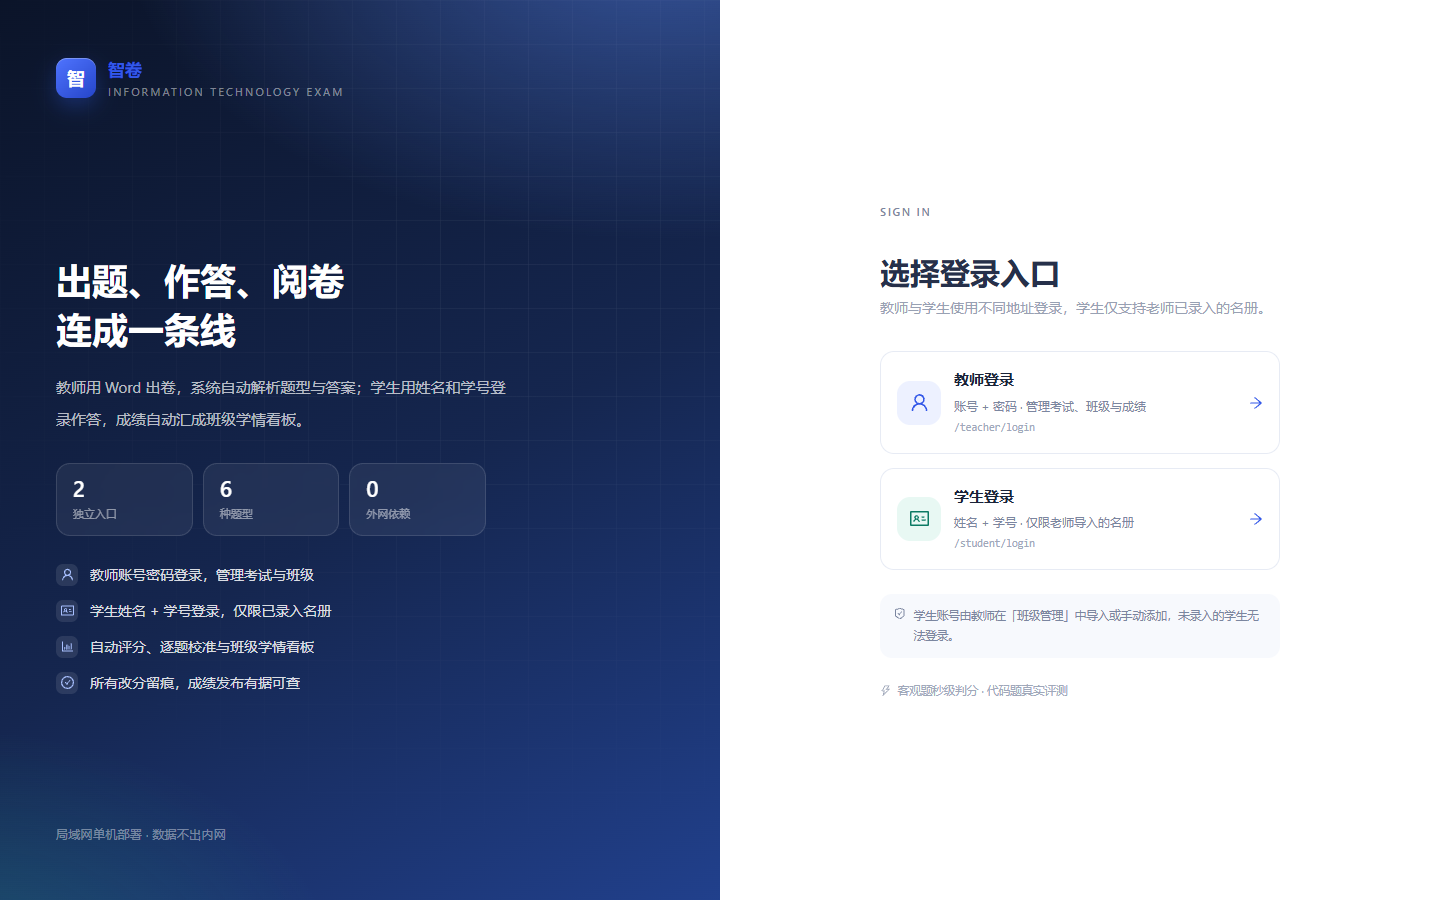
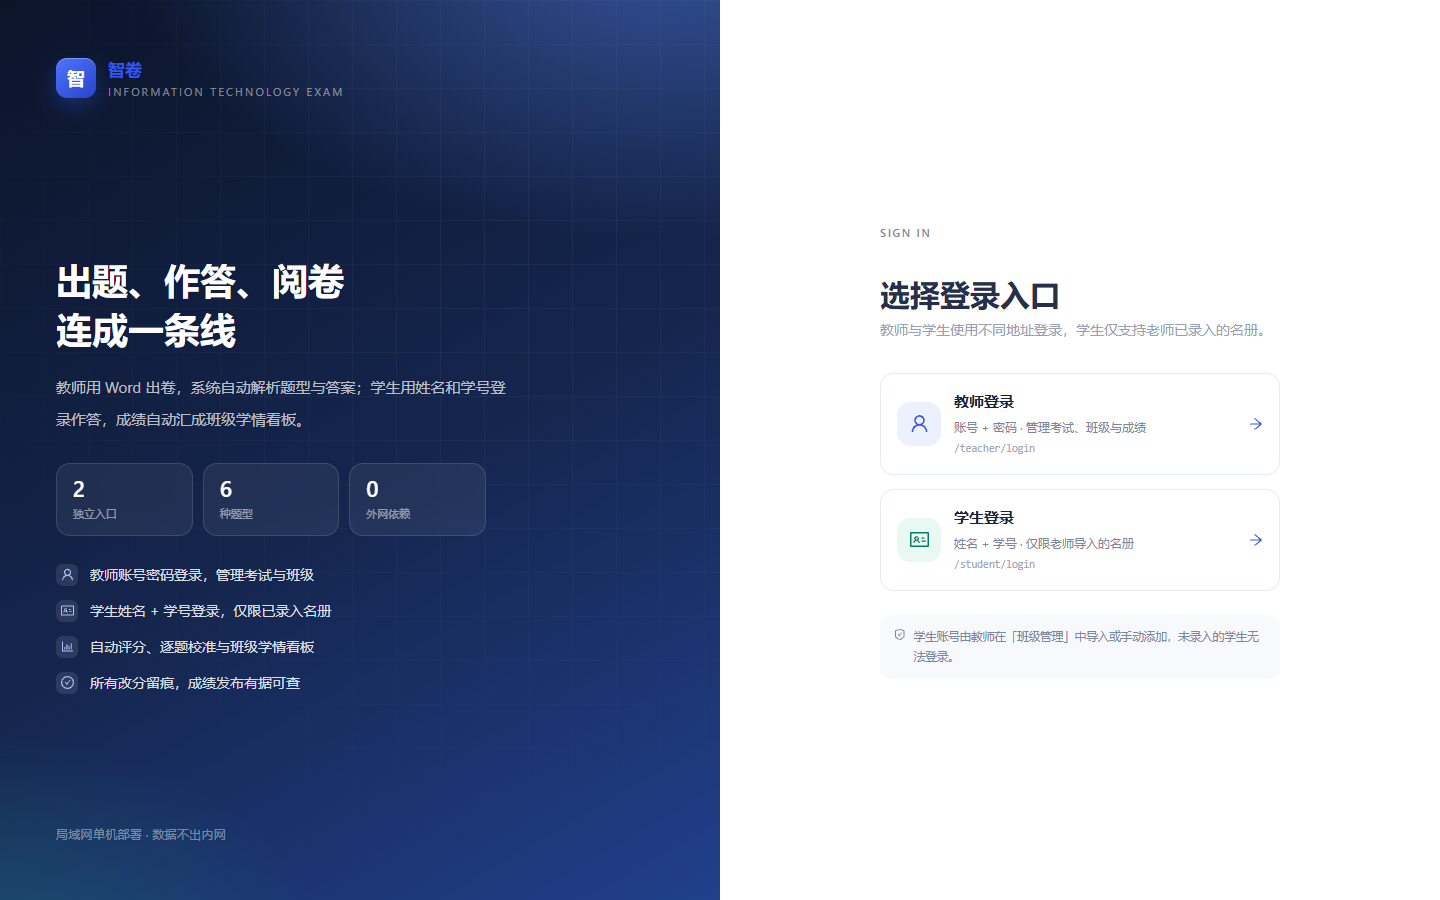
style: 移除页面常驻运行时与闭环提示
- 教师端侧边栏移除代码运行时状态块，顶栏移除运行时正常/异常胶囊
- 首页移除课堂闭环流程条，批改台移除每 3 秒自动刷新说明
- 学生首页移除底部常驻班级/保存说明，登录页移除营销式底部提示
- 未检测到 Python 时仍在首页保留错误提示，避免静默失败
- 同步 README 说明与界面截图

Changed region(s): [[0.625, 0.5289, 0.875, 0.7778], [0.5938, 0.28, 0.875, 0.3733], [0.625, 0.4044, 0.8125, 0.4978]]

diff --git a/src/App.tsx b/src/App.tsx
@@ -34,12 +34,6 @@ function RouteLoading() {
   );
 }
 
-interface RuntimeInfo {
-  python: string | null;
-  pythonSource: string;
-  node: string;
-}
-
 const TEACHER_NAV = [
   { to: '/teacher', end: true, label: '考试管理', icon: <DashboardOutlined /> },
   { to: '/teacher/analytics', end: false, label: '学情看板', icon: <BarChartOutlined /> },
@@ -61,15 +55,10 @@ function TeacherShell() {
   const location = useLocation();
   const [collapsed, setCollapsed] = useState(() => window.innerWidth < 992);
   const [mobile, setMobile] = useState(() => window.innerWidth < 992);
-  const [runtime, setRuntime] = useState<RuntimeInfo | null>(null);
 
   useEffect(() => {
     setCollapsed(window.innerWidth < 992);
     setMobile(window.innerWidth < 992);
-    fetch('/api/auth/runtime')
-      .then((res) => (res.ok ? res.json() : null))
-      .then(setRuntime)
-      .catch(() => setRuntime(null));
   }, []);
 
   useEffect(() => {
@@ -147,18 +136,7 @@ function TeacherShell() {
           <div className="flex-1" />
 
           <div className="sider-footer">
-            <div className="runtime-chip">
-              <span className={`runtime-dot ${runtime && !runtime.python ? 'is-off' : ''}`} />
-              <div className="min-w-0">
-                <div className="truncate text-white/75">
-                  {runtime == null ? '检测代码运行时…' : runtime.python ? '代码运行时就绪' : '代码运行时未就绪'}
-                </div>
-                <div className="truncate text-[10.5px] text-white/35">
-                  {runtime?.python ? runtime.pythonSource : '代码题将无法评测'}
-                </div>
-              </div>
-            </div>
-            <div className="mt-2 px-1 text-[10.5px] tracking-wide text-white/25">v0.3 · 局域网版</div>
+            <div className="px-1 text-[10.5px] tracking-wide text-white/25">v0.3 · 局域网版</div>
           </div>
         </div>
       </Layout.Sider>
@@ -179,12 +157,6 @@ function TeacherShell() {
           </div>
 
           <div className="ml-auto flex items-center gap-2 sm:gap-3">
-            {runtime ? (
-              <span className={`runtime-pill hidden md:inline-flex ${runtime.python ? '' : 'is-off'}`}>
-                <span className={`runtime-dot ${runtime.python ? '' : 'is-off'}`} style={{ width: 6, height: 6 }} />
-                {runtime.python ? '运行时正常' : '运行时异常'}
-              </span>
-            ) : null}
             <Dropdown
               trigger={['click']}
               menu={{

diff --git a/src/pages/teacher/Grading.tsx b/src/pages/teacher/Grading.tsx
@@ -19,7 +19,6 @@ import {
   BarChartOutlined,
   CheckCircleOutlined,
   ClockCircleOutlined,
-  ReloadOutlined,
   SearchOutlined,
   TeamOutlined,
   TrophyOutlined,
@@ -27,7 +26,7 @@ import {
 import { api, post } from '../../api';
 import type { ExamDetailTeacher, SubmissionRow } from '../../../shared/types';
 import { ExamStatusTag, Page, PageHeader, Pill, StatCard, SubmissionStatusTag } from '../../ui';
-import { formatDate, formatTime, scoreText } from '../../format';
+import { formatDate, scoreText } from '../../format';
 
 const { Text } = Typography;
 
@@ -52,7 +51,6 @@ export function TeacherGrading() {
   const [filter, setFilter] = useState<'all' | 'review'>('all');
   const [classFilter, setClassFilter] = useState<number | 'all'>('all');
   const [keyword, setKeyword] = useState('');
-  const [lastUpdated, setLastUpdated] = useState<string | null>(null);
 
   const load = useCallback(async () => {
     try {
@@ -63,7 +61,6 @@ export function TeacherGrading() {
       setExam(detail);
       setRows(subs);
       setError('');
-      setLastUpdated(new Date().toISOString());
     } catch (err) {
       setError(err instanceof Error ? err.message : '加载失败');
     }
@@ -258,10 +255,6 @@ export function TeacherGrading() {
           <span className="flex flex-wrap items-center gap-2.5">
             <ExamStatusTag status={exam.status} />
             {exam.resultsPublished ? <Pill tone="green">成绩已发布</Pill> : null}
-            <span className="inline-flex items-center gap-1.5">
-              <ReloadOutlined className="text-[11px]" />
-              每 3 秒自动刷新{lastUpdated ? ` · 最近 ${formatTime(lastUpdated)}` : ''}
-            </span>
           </span>
         }
         extra={

diff --git a/src/styles.css b/src/styles.css
@@ -210,33 +210,6 @@ body {
   border-top: 1px solid rgba(255, 255, 255, 0.07);
 }
 
-.runtime-chip {
-  display: flex;
-  align-items: center;
-  gap: 8px;
-  padding: 9px 11px;
-  border-radius: 10px;
-  background: rgba(255, 255, 255, 0.045);
-  border: 1px solid rgba(255, 255, 255, 0.06);
-  color: rgba(255, 255, 255, 0.6);
-  font-size: 11.5px;
-  line-height: 1.5;
-}
-
-.runtime-dot {
-  width: 7px;
-  height: 7px;
-  border-radius: 50%;
-  background: #2bd4a0;
-  box-shadow: 0 0 0 3px rgba(43, 212, 160, 0.14);
-  flex: none;
-}
-
-.runtime-dot.is-off {
-  background: #f2a33c;
-  box-shadow: 0 0 0 3px rgba(242, 163, 60, 0.14);
-}
-
 .app-topbar.ant-layout-header {
   position: sticky;
   top: 0;
@@ -267,26 +240,6 @@ body {
 
 .topbar-sep {
   color: #cfd6e6;
-}
-
-.runtime-pill {
-  display: inline-flex;
-  align-items: center;
-  gap: 7px;
-  height: 30px;
-  padding: 0 11px;
-  border-radius: 999px;
-  background: #f1fbf7;
-  border: 1px solid #d4f3e7;
-  color: #0b7a56;
-  font-size: 11.5px;
-  white-space: nowrap;
-}
-
-.runtime-pill.is-off {
-  background: #fff8ed;
-  border-color: #f7e3c2;
-  color: #a3680d;
 }
 
 .user-trigger {

diff --git a/src/pages/Login.tsx b/src/pages/Login.tsx
@@ -13,7 +13,6 @@ import {
   ReadOutlined,
   SafetyCertificateOutlined,
   TeamOutlined,
-  ThunderboltOutlined,
   UserOutlined,
 } from '@ant-design/icons';
 import { homeOf, useAuth } from '../auth';
@@ -224,11 +223,6 @@ export function LoginChooser() {
         <SafetyCertificateOutlined className="mt-0.5 text-[#3358e8]" />
         <span>学生账号由教师在「班级管理」中导入或手动添加，未录入的学生无法登录。</span>
       </div>
-
-      <div className="mt-6 flex items-center gap-1.5 text-[11.5px] text-[#a0a8ba]">
-        <ThunderboltOutlined />
-        客观题秒级判分 · 代码题真实评测
-      </div>
     </LoginShell>
   );
 }
@@ -304,11 +298,6 @@ export function TeacherLogin() {
             填入
           </Button>
         </div>
-      </div>
-
-      <div className="mt-4 flex items-center gap-1.5 text-[11.5px] text-[#a0a8ba]">
-        <SafetyCertificateOutlined />
-        教师账号与学生入口相互独立
       </div>
 
       <RoleSwitch to="/student/login" label="我是学生" />

diff --git a/src/pages/teacher/Home.tsx b/src/pages/teacher/Home.tsx
@@ -16,7 +16,6 @@ import {
   Tooltip,
 } from 'antd';
 import {
-  ArrowRightOutlined,
   BarChartOutlined,
   CheckCircleOutlined,
   ClockCircleOutlined,
@@ -325,19 +324,6 @@ export function TeacherHome() {
           })}
         </Row>
       )}
-
-      <div className="mt-5 flex flex-wrap items-center gap-2 rounded-2xl border border-[#e9ecf4] bg-white px-4 py-3 text-[11.5px] text-[#7b86a0]">
-        <span className="font-medium text-[#4b5670]">课堂闭环</span>
-        <span>Word 出卷</span>
-        <ArrowRightOutlined className="text-[9px] text-[#c7cedd]" />
-        <span>发布作答</span>
-        <ArrowRightOutlined className="text-[9px] text-[#c7cedd]" />
-        <span>自动评分</span>
-        <ArrowRightOutlined className="text-[9px] text-[#c7cedd]" />
-        <span>教师校准</span>
-        <ArrowRightOutlined className="text-[9px] text-[#c7cedd]" />
-        <span>学情看板</span>
-      </div>
 
       <Modal
         open={creating}

diff --git a/src/pages/student/Home.tsx b/src/pages/student/Home.tsx
@@ -5,7 +5,6 @@ import {
   ClockCircleOutlined,
   FileTextOutlined,
   PlayCircleOutlined,
-  TeamOutlined,
   TrophyOutlined,
 } from '@ant-design/icons';
 import { api } from '../../api';
@@ -185,14 +184,6 @@ export function StudentHome() {
           })}
         </Row>
       )}
-
-      <div className="mt-5 flex flex-wrap items-center gap-2 rounded-2xl border border-[#e9ecf4] bg-white px-4 py-3 text-[11.5px] text-[#7b86a0]">
-        <TeamOutlined />
-        <span>
-          {user?.className ? `你所在的班级：${user.className}` : '暂未分班'} · 学号 {user?.studentNo ?? '—'} ·
-          作答记录自动保存，提交后不可修改
-        </span>
-      </div>
     </Page>
   );
 }

diff --git a/README.md b/README.md
@@ -23,7 +23,7 @@
 
 ![学生登录](docs/images/09-student-login.png)
 
-**教师端 · 考试管理**（顶部实时显示代码运行时状态）
+**教师端 · 考试管理**（考试概览与建卷入口）
 
 ![教师端首页](docs/images/02-teacher-home.png)
 
@@ -275,7 +275,7 @@ A. 键盘　　B. 显示器　　C. 鼠标　　D. 扫描仪
 2. 项目内置 `runtime/python/python.exe`（仓库已带 Python 3.12.10 embeddable）
 3. 系统 `PATH` 中的 `python` / `python3`
 
-启动时控制台会打印运行时状态，教师端首页也会显示「代码运行时就绪 / 未检测到」。
+启动时控制台会打印运行时状态；若未检测到 Python，教师端首页会显示错误提示，代码题将无法评测。
 
 > `runtime/` 已被 `.gitignore` 忽略（避免把二进制塞进仓库）。重新 clone 或换机器时，请把 Python 放到 `runtime/python/`，或设置 `PYTHON_BIN`，或直接使用系统 Python。
 
